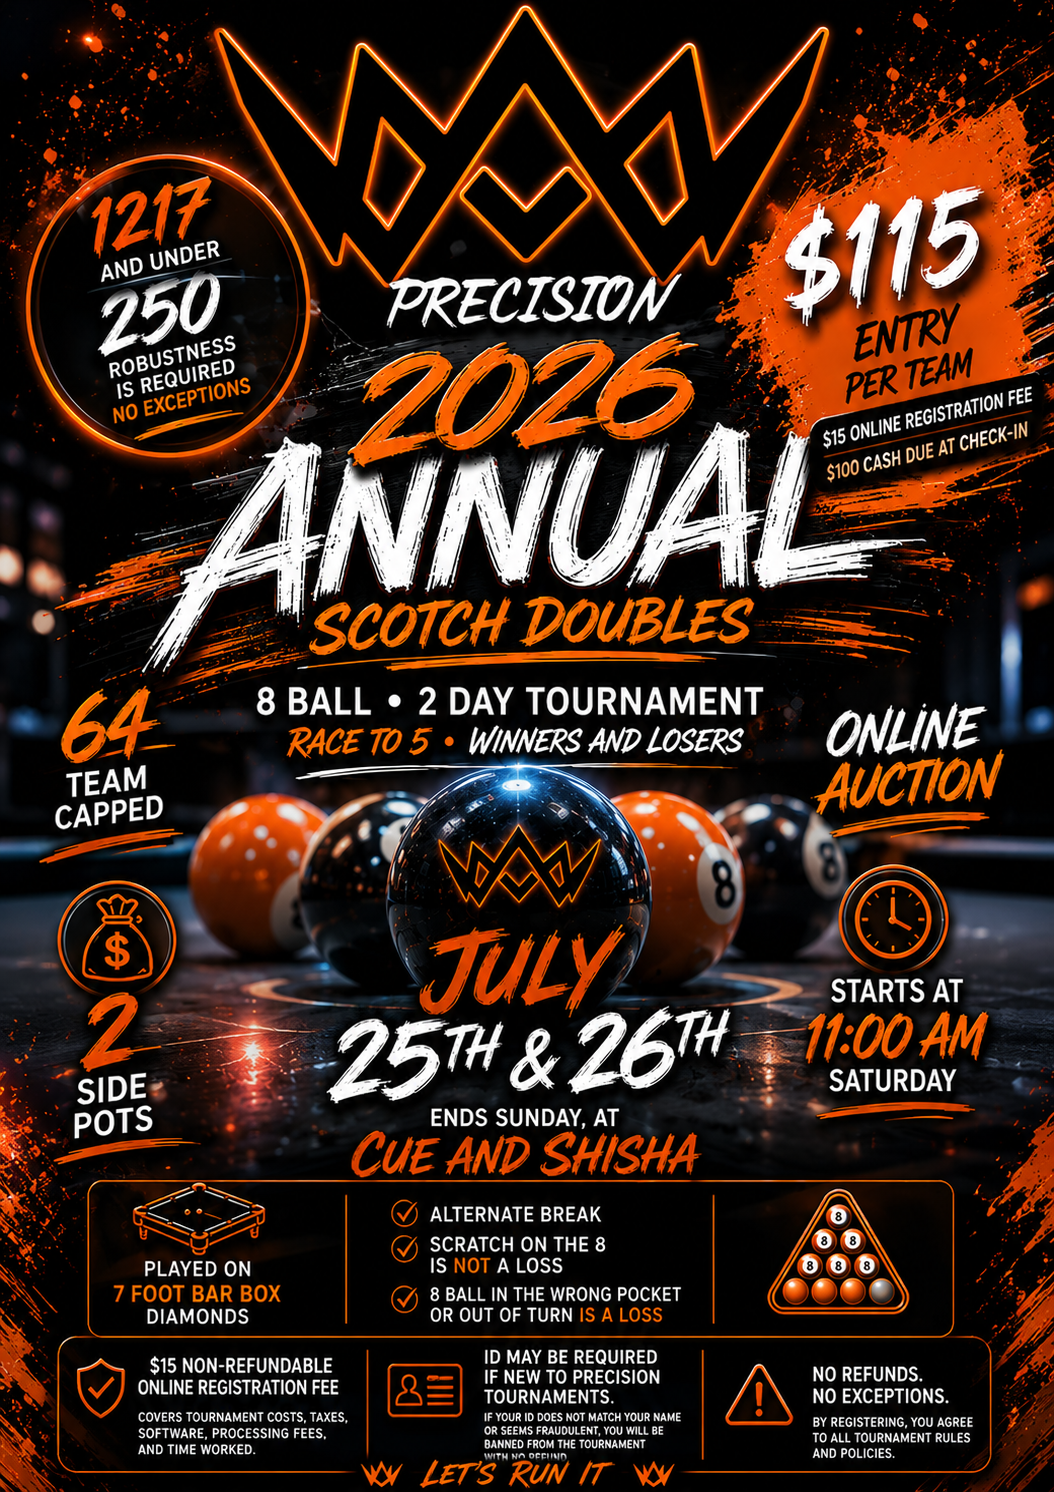
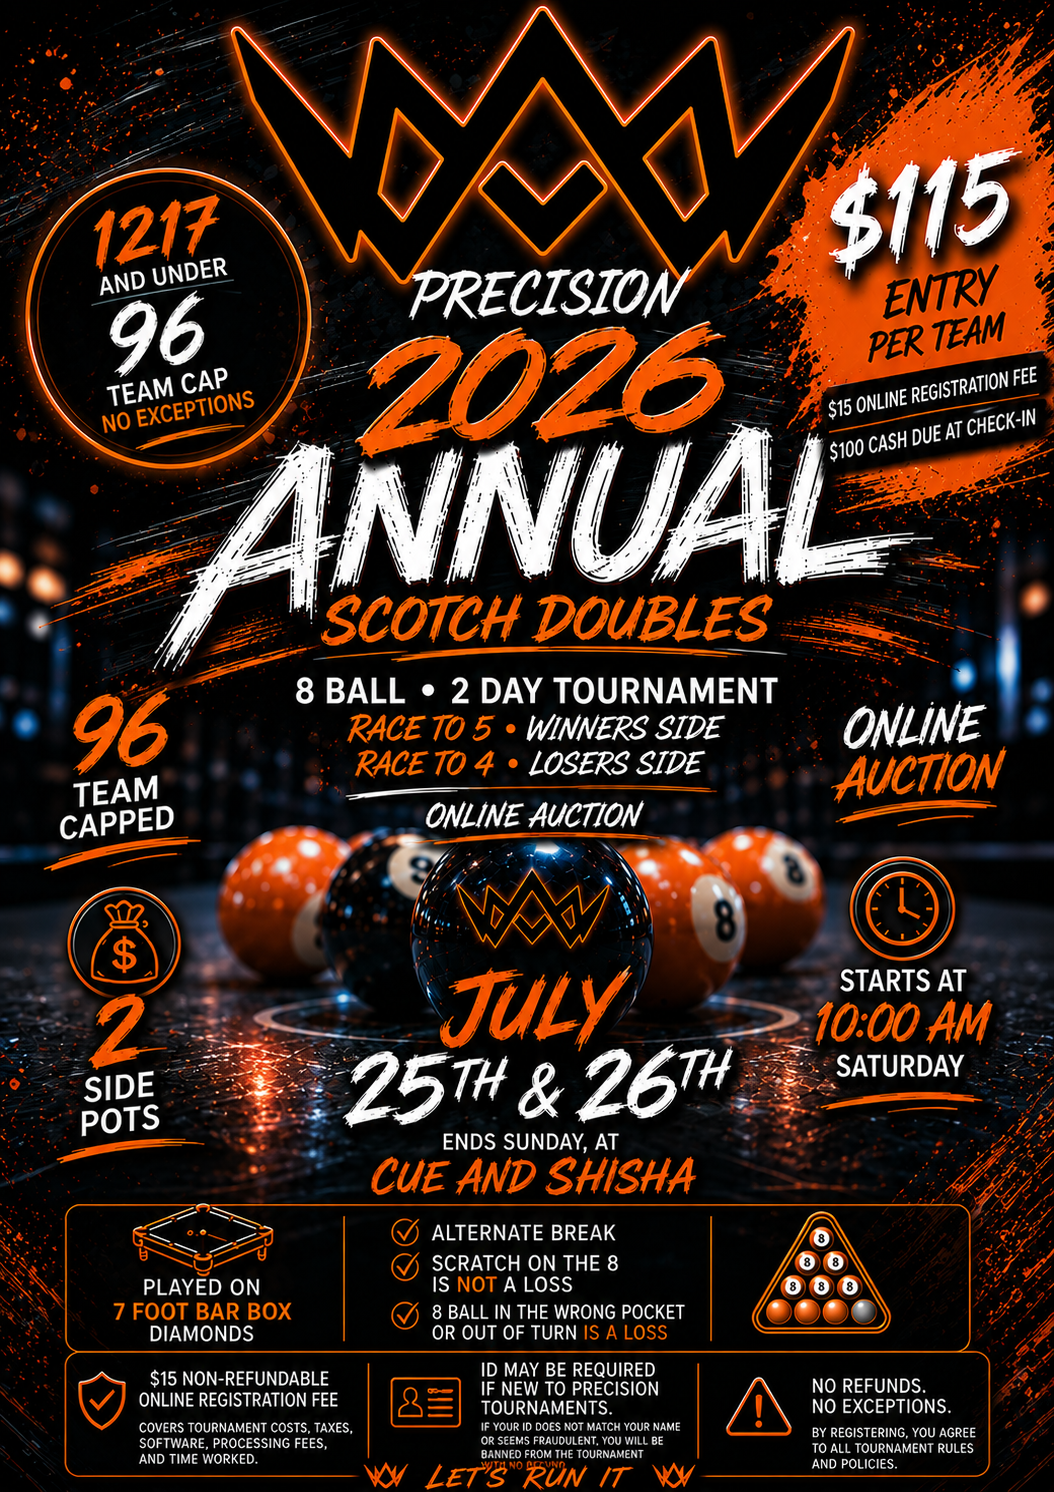
updated tournament

diff --git a/pages/registeredplayers.tsx b/pages/registeredplayers.tsx
@@ -14,7 +14,7 @@ type Team = {
   player1_name: string
   player2_name: string
   robustness: number
-  status: "registered" | "checked_in" | "waitlist"
+  status: "registered" | "checked_in"
   registration_paid: boolean
 }
 
@@ -74,13 +74,8 @@ export default function RegisteredPlayersPage() {
   const registeredTeams =
     teams.filter(
       (team) =>
-        team.status !== "waitlist"
-    )
-
-  const waitlistTeams =
-    teams.filter(
-      (team) =>
-        team.status === "waitlist"
+        team.status === "registered" ||
+        team.status === "checked_in"
     )
 
   const getStatus = (
@@ -101,13 +96,6 @@ export default function RegisteredPlayersPage() {
           label: "CHECKED IN",
           color:
             "bg-green-500/15 text-green-400 border-green-500/30",
-        }
-
-      case "waitlist":
-        return {
-          label: "WAITLIST",
-          color:
-            "bg-blue-500/15 text-blue-400 border-blue-500/30",
         }
 
       default:
@@ -153,7 +141,7 @@ export default function RegisteredPlayersPage() {
           </div>
 
           {/* STATS */}
-          <div className="grid grid-cols-1 md:grid-cols-3 gap-4 mb-16">
+          <div className="grid grid-cols-1 md:grid-cols-2 gap-4 mb-16">
 
             <div className="bg-[#111111] border border-white/10 rounded-[22px] p-6 text-center">
 
@@ -174,22 +162,6 @@ export default function RegisteredPlayersPage() {
             <div className="bg-[#111111] border border-white/10 rounded-[22px] p-6 text-center">
 
               <p className="text-white/50 uppercase tracking-[3px] text-[11px] mb-3">
-                Waitlist Teams
-              </p>
-
-              <h3 className="text-blue-400 text-5xl font-black">
-
-                {loading
-                  ? "..."
-                  : waitlistTeams.length}
-
-              </h3>
-
-            </div>
-
-            <div className="bg-[#111111] border border-white/10 rounded-[22px] p-6 text-center">
-
-              <p className="text-white/50 uppercase tracking-[3px] text-[11px] mb-3">
                 Spots Remaining
               </p>
 
@@ -197,7 +169,7 @@ export default function RegisteredPlayersPage() {
 
                 {loading
                   ? "..."
-                  : 64 - registeredTeams.length}
+                  : 96 - registeredTeams.length}
 
               </h3>
 
@@ -206,7 +178,7 @@ export default function RegisteredPlayersPage() {
           </div>
 
           {/* MAIN FIELD */}
-          <div className="mb-20">
+          <div>
 
             <div className="flex items-center gap-6 mb-8">
 
@@ -304,110 +276,6 @@ export default function RegisteredPlayersPage() {
             </div>
 
           </div>
-
-          {/* WAITLIST */}
-          {waitlistTeams.length > 0 && (
-
-            <div>
-
-              <div className="flex items-center gap-6 mb-8">
-
-                <h2 className="text-white text-3xl md:text-5xl font-black uppercase whitespace-nowrap">
-                  Waitlist
-                </h2>
-
-                <div className="h-[2px] w-full bg-gradient-to-r from-blue-500/50 to-transparent" />
-
-              </div>
-
-              <div className="overflow-x-auto rounded-[24px] border border-white/10">
-
-                <table className="w-full min-w-[700px] bg-[#111111]">
-
-                  <thead>
-
-                    <tr className="border-b border-white/10">
-
-                      <th className="text-left px-6 py-5 text-white/50 uppercase tracking-[3px] text-[11px]">
-                        Team #
-                      </th>
-
-                      <th className="text-left px-6 py-5 text-white/50 uppercase tracking-[3px] text-[11px]">
-                        Players
-                      </th>
-
-                      <th className="text-left px-6 py-5 text-white/50 uppercase tracking-[3px] text-[11px]">
-                        Robustness
-                      </th>
-
-                      <th className="text-left px-6 py-5 text-white/50 uppercase tracking-[3px] text-[11px]">
-                        Status
-                      </th>
-
-                    </tr>
-
-                  </thead>
-
-                  <tbody>
-
-                    {waitlistTeams.map((team) => {
-
-                      const status =
-                        getStatus(team.status)
-
-                      return (
-                        <tr
-                          key={team.id}
-                          className="border-b border-white/5 hover:bg-white/[0.02] transition"
-                        >
-
-                          <td className="px-6 py-5 text-white font-black text-lg">
-                            #{team.id}
-                          </td>
-
-                          <td className="px-6 py-5">
-
-                            <div className="text-white font-bold uppercase text-base md:text-lg">
-                              {team.player1_name}
-                            </div>
-
-                            <div className="text-white/40 text-sm my-1">
-                              &
-                            </div>
-
-                            <div className="text-white font-bold uppercase text-base md:text-lg">
-                              {team.player2_name}
-                            </div>
-
-                          </td>
-
-                          <td className="px-6 py-5 text-[#D97732] font-black text-2xl">
-                            {team.robustness}
-                          </td>
-
-                          <td className="px-6 py-5">
-
-                            <div
-                              className={`inline-flex border rounded-full px-4 py-2 text-[10px] md:text-xs uppercase tracking-[2px] font-black ${status.color}`}
-                            >
-                              {status.label}
-                            </div>
-
-                          </td>
-
-                        </tr>
-                      )
-                    })}
-
-                  </tbody>
-
-                </table>
-
-              </div>
-
-            </div>
-
-          )}
 
         </LayoutContainer>
 

diff --git a/components/playerslist.tsx b/components/playerslist.tsx
@@ -7,7 +7,7 @@ import { supabase } from "../lib/supabase"
 
 type Team = {
   id: number
-  status: "registered" | "checked_in" | "waitlist"
+  status: "registered" | "checked_in"
   registration_paid: boolean
 }
 
@@ -62,16 +62,11 @@ export default function TournamentTeams() {
   }
 
   const registeredTeams =
-  teams.filter(
-    (team) =>
-      team.status !== "waitlist"
-  )
-
-const waitlistTeams =
-  teams.filter(
-    (team) =>
-      team.status === "waitlist"
-  )
+    teams.filter(
+      (team) =>
+        team.status === "registered" ||
+        team.status === "checked_in"
+    )
 
   return (
     <section className="py-14 md:py-20">
@@ -96,7 +91,7 @@ const waitlistTeams =
         </div>
 
         {/* COUNTER */}
-        <div className="grid grid-cols-1 md:grid-cols-3 gap-4 mb-12">
+        <div className="grid grid-cols-1 md:grid-cols-2 gap-4 mb-12">
 
           <div className="bg-[#111111] border border-white/10 rounded-[22px] p-6 text-center">
 
@@ -117,22 +112,6 @@ const waitlistTeams =
           <div className="bg-[#111111] border border-white/10 rounded-[22px] p-6 text-center">
 
             <p className="text-white/50 uppercase tracking-[3px] text-[11px] mb-3">
-              Waitlist Teams
-            </p>
-
-            <h3 className="text-blue-400 text-5xl font-black">
-
-              {loading
-                ? "..."
-                : waitlistTeams.length}
-
-            </h3>
-
-          </div>
-
-          <div className="bg-[#111111] border border-white/10 rounded-[22px] p-6 text-center">
-
-            <p className="text-white/50 uppercase tracking-[3px] text-[11px] mb-3">
               Spots Remaining
             </p>
 
@@ -140,7 +119,7 @@ const waitlistTeams =
 
               {loading
                 ? "..."
-                : 64 - registeredTeams.length}
+                : 96 - registeredTeams.length}
 
             </h3>
 

diff --git a/pages/api/shopify-webhook.ts b/pages/api/shopify-webhook.ts
@@ -167,27 +167,6 @@ export default async function handler(
         )
       )
 
-    // COUNT CURRENT REGISTERED TEAMS
-    const {
-      count
-    } = await supabase
-      .from(
-        "tournament_teams"
-      )
-      .select("*", {
-        count: "exact",
-        head: true,
-      })
-      .neq(
-        "status",
-        "waitlist"
-      )
-
-    const status =
-      (count || 0) >= 64
-        ? "waitlist"
-        : "registered"
-
     const { error } =
       await supabase
         .from(
@@ -203,7 +182,8 @@ export default async function handler(
 
           robustness,
 
-          status,
+          status:
+            "registered",
 
           registration_paid:
             true,

diff --git a/pages/tournament.tsx b/pages/tournament.tsx
@@ -52,8 +52,10 @@ export default function TournamentPage() {
             </h1>
 
             <p className="mt-6 text-white/60 text-sm md:text-lg max-w-[850px] mx-auto leading-relaxed">
-              1217 & Under • 64 Team Cap • $115 Entry •
-              8 Ball • Race to 5 • Online Auction •
+              1217 & Under • 96 Team Cap • $115 Entry •
+              8 Ball • Race to 5 Winners Side •
+              Race to 4 Losers Side •
+              Online Auction •
               July 25th & 26th
             </p>
 
@@ -104,7 +106,7 @@ export default function TournamentPage() {
       {/* REGISTRATION FORM */}
       <TournamentRegistrationForm />
 
-      {/* RULES DROPDOWN */}
+      {/* RULES */}
       <TournamentRules />
 
       <Footer />

diff --git a/components/rules.tsx b/components/rules.tsx
@@ -10,7 +10,7 @@ const rules = [
   {
     title: "Tournament Format",
     content: [
-      "1217 robustness cap. 250 minimum robustness is required no exceptions. No other league substitutions for this tournament",
+      "1217 robustness cap. 250 minimum robustness or other league ratings (must be cleared with TD before sign-up. All TD decisions are final)",
       "1 game is given every 50 Fargo points.",
       "Maximum of 3 games spot.",
       "Higher robustness team always races up.",
@@ -26,7 +26,7 @@ const rules = [
       "Scratch on the 8-ball is NOT a loss.",
       "8-ball made in the wrong pocket IS a loss.",
       "Either player on the team may break.",
-      "Talking between teammates is allowed.",
+      "Talking between teammates is allowed. Please be cautious of slow play",
       "Jump cues are allowed.",
     ],
   },